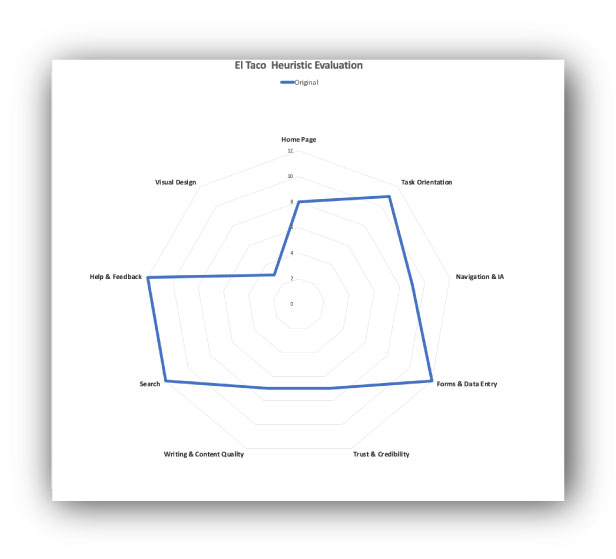
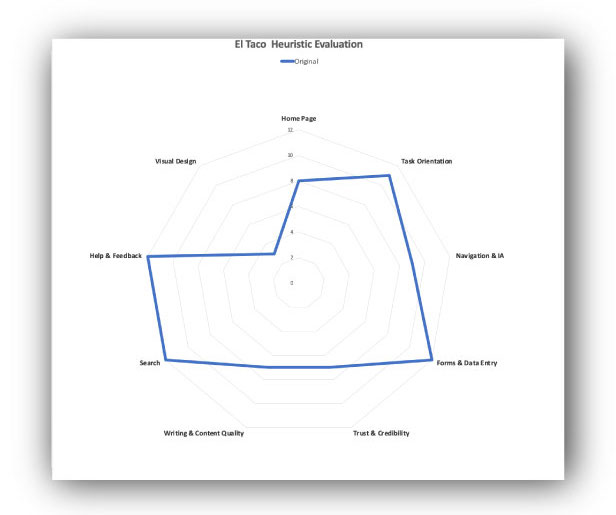
Add to el taco portfolio page

diff --git a/Casestudies/eltaco.html b/Casestudies/eltaco.html
@@ -135,7 +135,7 @@
             loading="lazy"
             src="../imgs/eltaco/vishier.jpg"
             width="100%"
-            />
+            >
         <p>
             Most pages, especially the homepage lack clear visual hierarchy. The user may not know where to look first as there is a strange mashup of font sizes and text color. A more organized and structured approach will give the site much more appeal
         </p>
@@ -145,6 +145,7 @@
         <p>
             The homepage seems to drown in whitespace. Finding the balance between content and air to breathe around it is vital to users feeling confident and comfortable with El Taco and their business as a whole.
         </p>
+        <section>
         <h2>
             Users and Feedback
         </h2>
@@ -158,6 +159,31 @@
         <h3>
             Heuristic Analysis
         </h3>
+        <br>
+        <h4 class="imgtitle">
+            Desktop
+        </h4>
+        <img 
+          src="../imgs/eltaco/OGDesktoph.jpg" 
+          loading="lazy"
+          alt="A heuristics analysis of the original Desktop site highlighting its strengths and weaknesses"
+          width="100%">
+        <h4>
+            Tablet
+        </h4>
+        <img 
+        src="../imgs/eltaco/OGTableth.jpg" 
+        loading="lazy"
+        alt="A heuristics analysis of the original tablet site highlighting its strengths and weaknesses"
+        width="100%">
+        <h4>
+            Mobile
+        </h4>
+        <img 
+        src="../imgs/eltaco/OGMobileh.jpg" 
+        loading="lazy"
+        alt="A heuristics analysis of the original mobile site highlighting its strengths and weaknesses"
+        width="100%"/>
         <p>
             By instructing users to navigate through the site and asking them questions regarding their opinions on the site's quality. Some of the topics like "search" don't apply to this specific site. This heuristic analysis showed the strengths and weaknesses of the original El Taco's desktop, mobile, and tablet sites. Across all platforms, it is clear that the site lacks attractive and cohesive visual design, accessible and logical navigation, and content quality.
         </p>
@@ -182,7 +208,13 @@
         <q>
             If their site matched their physical restaurant and their great tacos, then they’d get much more business
         </q>
-        <br>
+        <img
+        src="../imgs/eltaco/restaurantimg.jpeg"
+        loading="lazy"
+        alt="an photograph of the interior of el taco's physical restaurant with string lights, tables, chairs, and a chalkboard with menu items"
+        width="100%"
+        />
+        </section>
         <h2>
             Goals
         </h2>
@@ -198,12 +230,24 @@
         <h3>
             Incorporate Consistent Footer
         </h3>
+        <img
+        src="../imgs/eltaco/OGeltacofooter.png" 
+        loading="lazy"
+        alt="a footer displaying copyright 2021 el taco llc information"
+        width="100%"
+        >
         <p>
             Lacking footer with simple copyright information and nothing else. This footer could be used to add consistency to every page with relevant information.
         </p>
         <h3>
             Accessible & Efficient Navigation
         </h3>
+        <img
+        src="../imgs/eltaco/OGeltacoheader.png"
+        loading="lazy"
+        alt="four navigation buttons with relatively small font, el tacos logo, and four social media icon links"
+        width="100%"
+        />
         <p>
             The current navigation menu is hard to use, see, and can be replaced with a more efficient menu bar.
         </p>
@@ -213,12 +257,24 @@
         <h3>
             Initial Color Palettes
         </h3>
+        <img 
+        src="../imgs/eltaco/ColorRedesignchoices.png"
+        loading="lazy"
+        alt="three color grids displaying warm yellows, shades of blue, with some reds, and navy colors"
+        width="100%"
+        >
         <p>
             A primary focus on yellows and reds to incite hunger and a secondary focus on blues and teals to represent El Taco’s owner’s Guatemalan origins (similar blues to the Guatemala flag)
         </p>
         <h3>
             Final Color Scheme
         </h3>
+        <img
+        src="../imgs/eltaco/finalcolorscheme.png"
+        loading="lazy"
+        alt=" blocks of colors separated into primary, secondary, and tertiary colors with hexcodes . A navy blue and warm yellow being the primary colors of the color scheme"
+        width="100%"
+        >
         <p>
             A warm yellow and dark navy (Primary)
         </p>
@@ -231,12 +287,75 @@
         <h3>
             Initial Wireframe Sketches
         </h3>
+        <h4 class="imgtitle">
+            Homepage
+        </h4>
+        <img 
+        src="../imgs/eltaco/wireframehome.png"
+        loading="lazy"
+        alt="a simple black outlined wireframe depicting a sketch of the homepage"
+        width="100%"
+        >
+        <h4>
+            About Page
+        </h4>
+        <img 
+        src="../imgs/eltaco/wireframehome.png"
+        loading="lazy"
+        alt="a simple black outlined wireframe depicting a sketch of the homepage"
+        width="100%"
+        >
+        <h4>
+            Contact Page
+        </h4>
+        <img 
+        src="../imgs/eltaco/wireframehome.png"
+        loading="lazy"
+        alt="a simple black outlined wireframe depicting a sketch of the homepage"
+        width="100%"
+        >
         <p>
             While the final product was very different from the sketches, these preliminary explorations supported the final iterations.
         </p>
         <h3>
             Final Design - Desktop
         </h3>
+        <h4>
+            Homepage
+        </h4>
+        <img
+        width="100%"
+        src="../imgs/eltaco/desktopfinalhomepage.jpg"
+        alt="a brightly colored, finalized homepage for el taco"
+        loading="lazy"
+        >
+        <h4>
+            Menu
+        </h4>
+        <img
+        width="100%"
+        src="../imgs/eltaco/desktopfinalmenu.jpg"
+        alt="a brightly colored, finalized menu page for el taco"
+        loading="lazy"
+        >
+        <h4>
+            Contact
+        </h4>
+        <img
+        width="100%"
+        src="../imgs/eltaco/desktopfinalcontact.jpg"
+        alt="a brightly colored, finalized contact page for el taco"
+        loading="lazy"
+        >
+        <h4>
+            Promos
+        </h4>
+        <img
+        width="100%"
+        src="../imgs/eltaco/desktopfinalpromos.jpg"
+        alt="a brightly colored, finalized promos for el taco"
+        loading="lazy"
+        >
         <h3>
             Final Design - Tablet
         </h3>

diff --git a/stylesheet.css b/stylesheet.css
@@ -58,6 +58,18 @@ h2 {
     font-size: 2.5rem;
     left: var(--text_margin1);
  }
+
+ h4 {
+    display: inline-block;
+    padding: 1.5%;
+    background-color: var(--mainred);
+    color: white;
+    font-family: 'Oswald', sans-serif;
+    font-style: normal;
+    font-size: 1.5rem;
+    left: var(--text_margin1);
+    position: relative;
+ }
  .caption {
     display: inline-block;
     position: relative;
@@ -66,12 +78,13 @@ h2 {
     bottom: var(--offset_amount2);
     max-width: 85%;
     left: var(--text_margin1);
+    
  }
- h1.title, h3.title {
+ .title {
     position: relative;
     top: var(--offset_amount1);
  }
-    
+
  div.projdesc {
     max-width: 90%;
     padding: 2%;
@@ -105,26 +118,34 @@ h2 {
     border: 3px solid var(--mainred);
   }
   q {
-    color: grey;
+    position: relative;
+    color: darkgray;
     font-family: helvetica;
-    font-style: normal;
+    font-style: italic;
     font-size: 1rem;
     line-height: 2rem;
     display: inline-block;
     margin: var(--text_margin1);
   }
-  h3.imgtitle ~ img {
-    position: relative;
-    bottom: var(--offset_amount2);
-    z-index: 10;
+  q + img {
+    margin: 25% 0 -10%;
   }
-  h3.imgtitle {
+ .imgtitle ~ img {
+    position: relative;
+    bottom: var(--offset_amount1);
+    z-index: -2;
+  }
+  img {
+    position: relative;
+    z-index: -1;
+  }
+  /* h3.imgtitle {
     position: relative;
     top: var(--offset_amount2A);
     left: var(--offset_amount2); 
     margin-top: -(var(--offset_amount2));
     z-index: 20;
-  }
+  } */
 
 /* h1.contactheader {
 

diff --git a/index.html b/index.html
@@ -42,7 +42,7 @@
     </header>
     <section>
         <section id="project_header">
-            <h2 class="title"> 
+            <h2> 
                 Projects
             </h2>
             <p>
